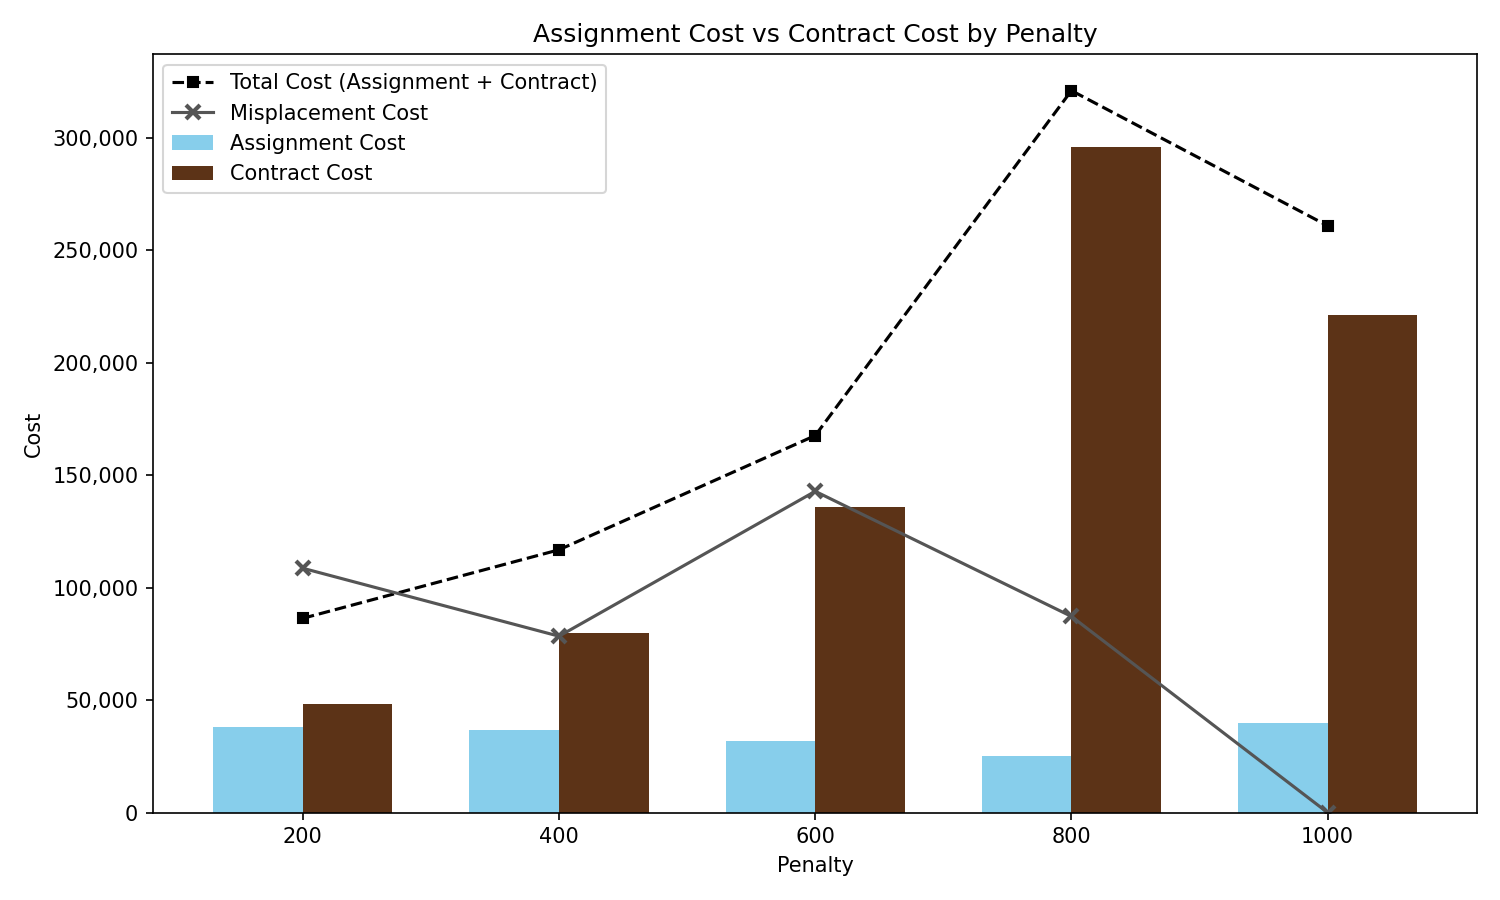
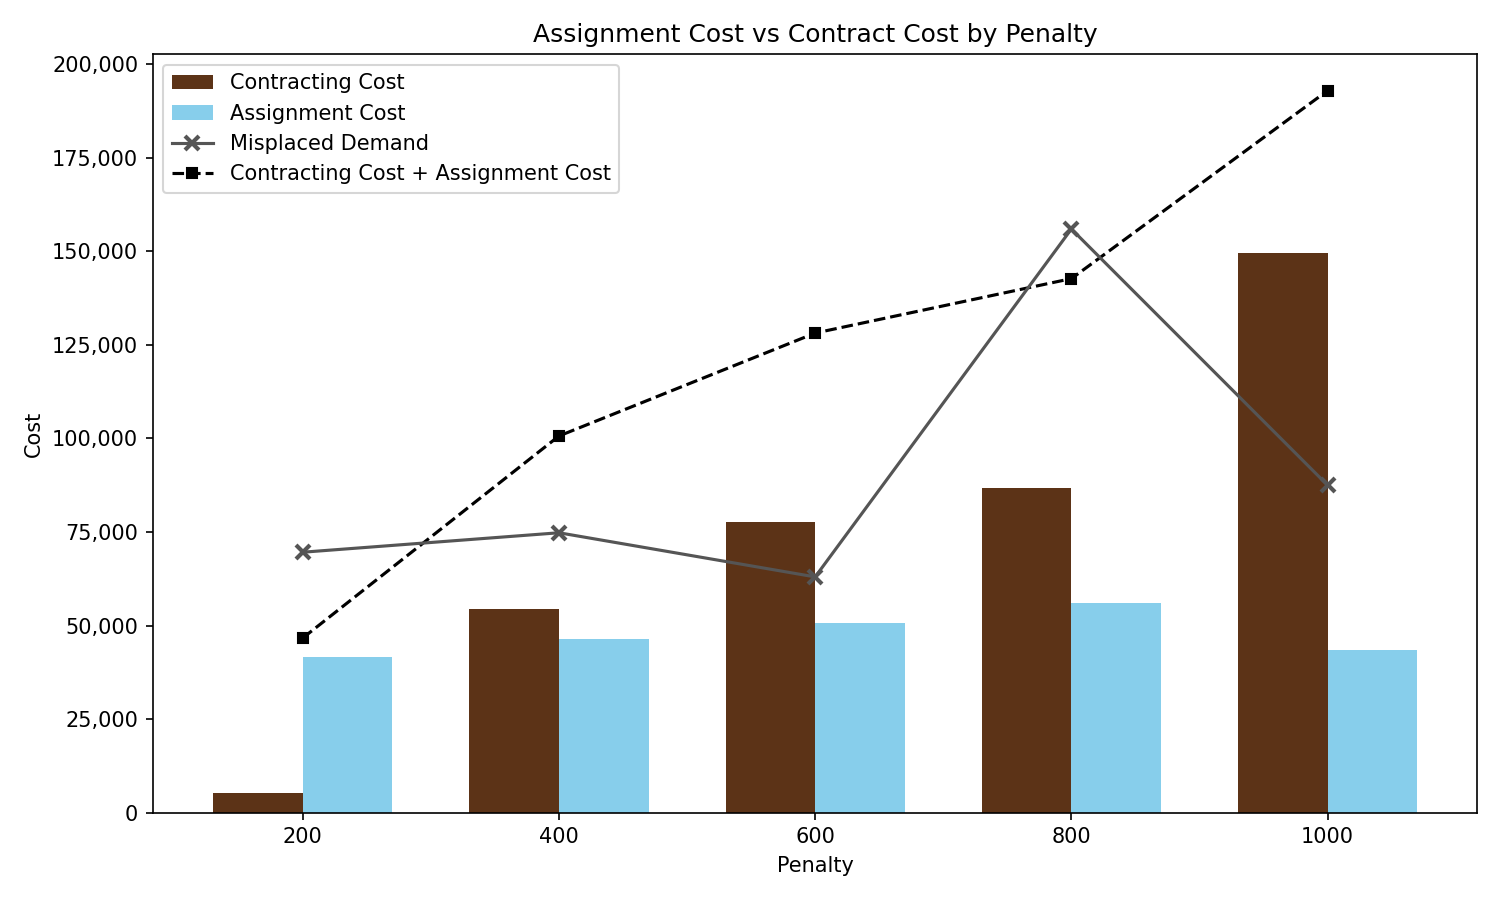
aggiornato penality study

diff --git a/src/utils.py b/src/utils.py
@@ -1,6 +1,8 @@
 from pathlib import Path
 import matplotlib.pyplot as plt
 import pandas as pd
+import os
+import numpy as np
 
 RESULTS_DIR = Path(__file__).parent.parent / "results"
 RESULTS_DIR.mkdir(exist_ok=True)
@@ -102,3 +104,45 @@ def format_time(seconds: float) -> str:
         return f"{minutes}m {secs}s"
     else:
         return f"{secs}s"
+
+
+def generate_plot_penality(csv_path=None, out_path=None):
+    script_dir = os.path.dirname(os.path.abspath(__file__))
+    results_dir = os.path.join(script_dir, "..", "results")
+
+    if csv_path is None:
+        csv_path = os.path.join(results_dir, "penality_study.csv")
+    if out_path is None:
+        out_path = os.path.join(results_dir, "penality_study.png")
+
+    df = pd.read_csv(csv_path)
+    df = df.groupby("penalty")[["assignment_cost", "contract_cost", "misplacement_cost"]].mean().reset_index()
+
+    penalties = df["penalty"].values
+    assignment_cost = df["assignment_cost"].values
+    contract_cost = df["contract_cost"].values
+    misplacement_cost = df["misplacement_cost"].values
+
+    x = np.arange(len(penalties))
+    width = 0.35
+
+    fig, ax = plt.subplots(figsize=(10, 6))
+    bars_contract = ax.bar(x - width / 2, contract_cost, width, label="Contracting Cost", color="#5C3317")
+    bars_assignment = ax.bar(x + width / 2, assignment_cost, width, label="Assignment Cost", color="#87CEEB")
+
+    total_cost = assignment_cost + contract_cost
+    line_total = ax.plot(x, total_cost, color="black", marker="s", linestyle="--", linewidth=1.5, markersize=5, label="Contracting Cost + Assignment Cost")[0]
+    line_misplacement = ax.plot(x, misplacement_cost, color="#555555", marker="x", linestyle="-", linewidth=1.5, markersize=7, markeredgewidth=2, label="Misplaced Demand")[0]
+
+    ax.set_xlabel("Penalty")
+    ax.set_ylabel("Cost")
+    ax.set_title("Assignment Cost vs Contract Cost by Penalty")
+    ax.set_xticks(x)
+    ax.set_xticklabels(penalties)
+    ax.legend(handles=[bars_contract, bars_assignment, line_misplacement, line_total])
+    ax.yaxis.set_major_formatter(plt.FuncFormatter(lambda val, _: f"{int(val):,}"))
+    fig.tight_layout()
+
+    plt.savefig(out_path, dpi=150)
+    plt.close(fig)
+    print(f"Plot saved to {out_path}")

diff --git a/src/penality_study.py b/src/penality_study.py
@@ -1,0 +1,48 @@
+# penality_study.py
+
+import argparse
+import random
+import copy
+import os
+import sys
+import time
+import csv
+from datetime import datetime
+from zoneinfo import ZoneInfo
+
+import gurobipy as gp
+from gurobipy import GRB
+from data_loader import get_data_from_file_excel, validate_dimensions
+from utils import generate_plot_penality, format_time
+from ils import *
+
+if __name__ == "__main__":
+    parser = argparse.ArgumentParser()
+    parser.add_argument(
+        "--time-limit",
+        action=argparse.BooleanOptionalAction,
+        default=False,
+        help="Stop after 2 hours and save partial results (default: off)."
+    )
+
+    args = parser.parse_args()
+
+    start_time = time.time()
+    results_dir = os.path.join(os.path.dirname(os.path.dirname(os.path.abspath(__file__))), "results")
+    results_file = os.path.join(results_dir, "penality_study.csv")
+
+    instance_time_limit = 2 * 3600 if args.time_limit else None
+
+    if os.path.exists(results_file):
+        os.remove(results_file)
+    for sheet_idx in range(0, 11):
+        run_ils_instance("penality_study", sheet_idx, results_file, time_limit=instance_time_limit)
+
+    if os.path.isfile(results_file):
+        generate_plot_penality(results_file)
+
+    elapsed = format_time(time.time() - start_time)
+    print(f"Total time needed: {elapsed}")
+
+    if sys.platform == "darwin":
+        os.system(f'osascript -e \'display notification "Completed in {elapsed}" with title "Penality Study"\'')
